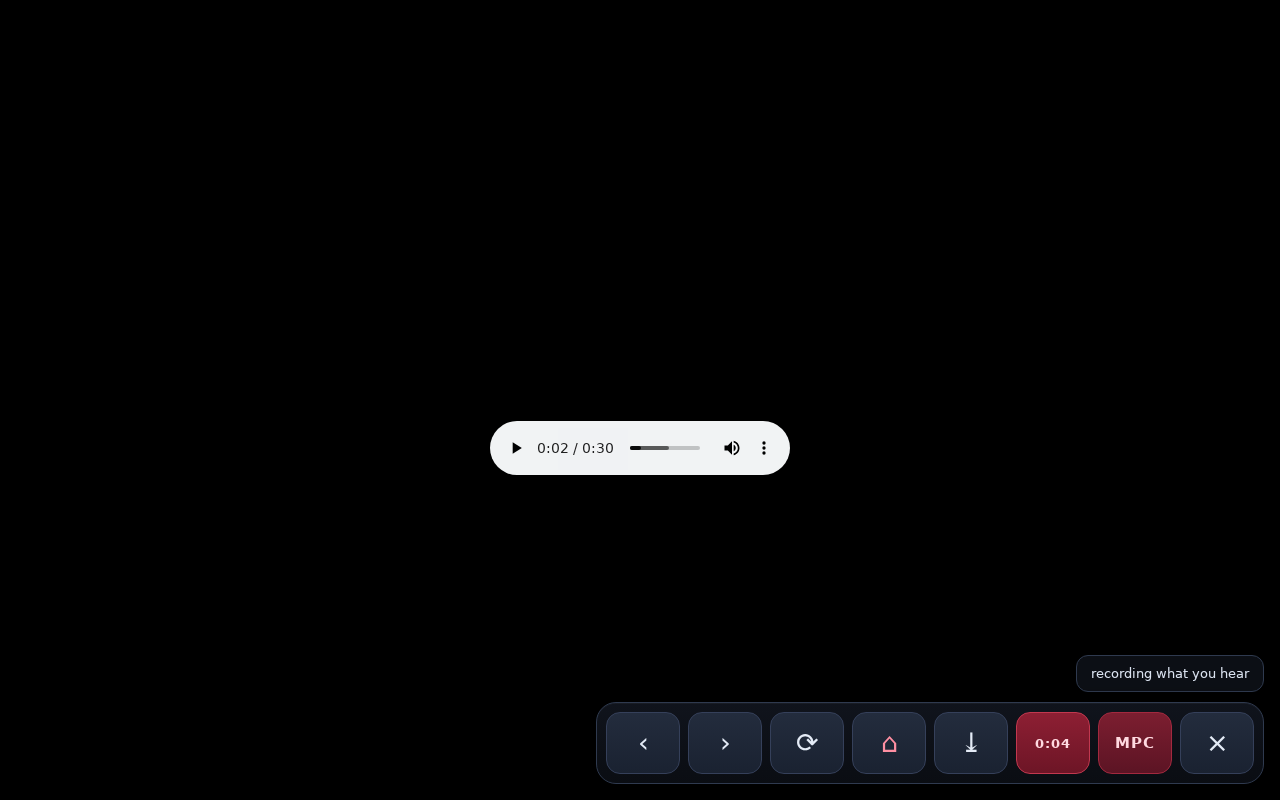
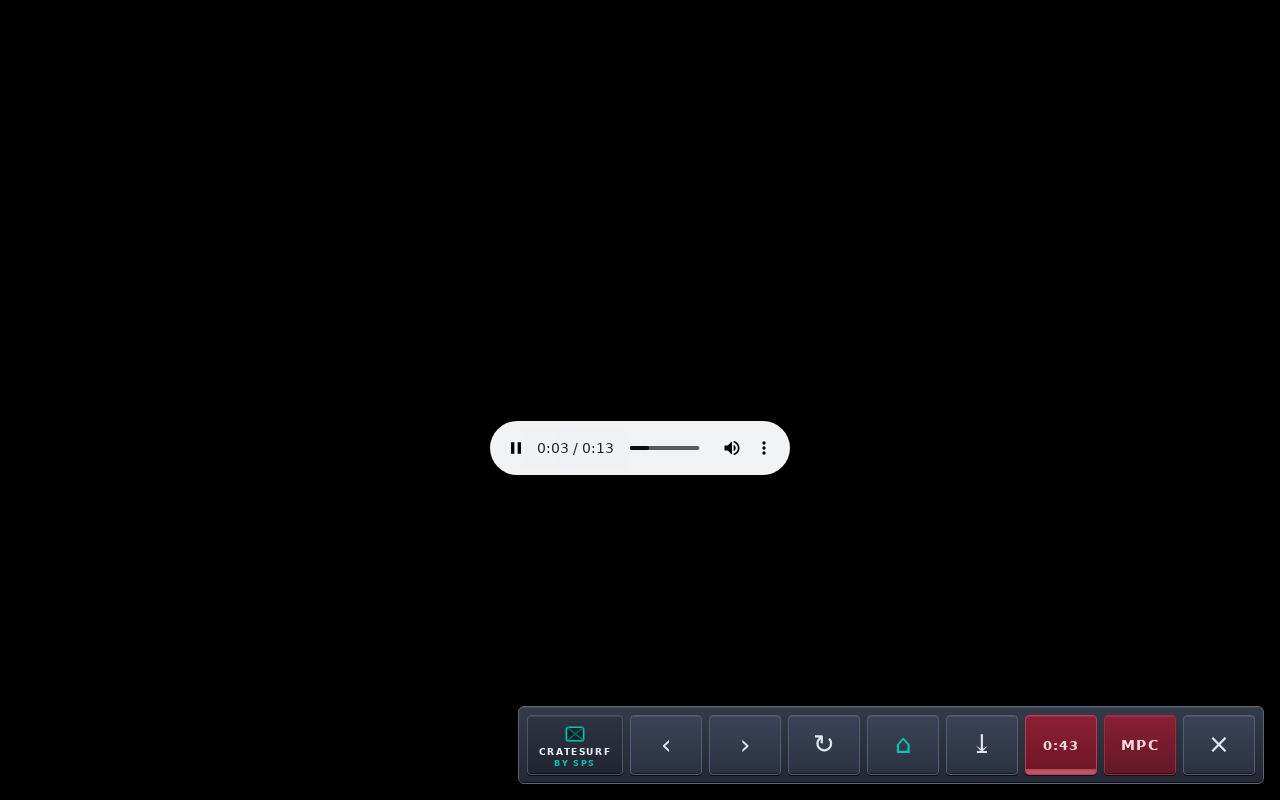
Refresh the panel screenshots to the chrome that actually ships, and credit both authors
The two images in docs/ predated the Navigator-style rebuild, so the README was showing a bar
that no longer exists. Both retaken off the framebuffer in browse mode on the tested unit,
including a live REC take, and the take itself was deleted afterwards.

Adds CONTRIBUTORS.md, a tip jar with the slots left empty on purpose, and a badge row.

Generated with Codebuff 🤖

Changed region(s): [[0.4062, 0.8125, 1.0, 1.0]]

diff --git a/README.md b/README.md
@@ -5,9 +5,19 @@ downloads that land straight in `MPC Documents/Samples`, and a navigation bar on
 because kiosk mode has none. Dig for samples on the machine you are going to chop them on,
 instead of shuttling files across from a computer.
 
+[![status](https://img.shields.io/badge/status-0.1.0--alpha-e0243f?style=flat-square)](#read-this-first)
+[![tested on](https://img.shields.io/badge/tested%20on-1%20MPC%20One%2B%20Gen%201-00c8b4?style=flat-square)](#read-this-first)
+[![made with](https://img.shields.io/badge/made%20with-a%20browser%20that%20should%20already%20be%20there-1f2937?style=flat-square)](#why-turning-it-on-means-turning-the-mpc-off)
+[![licence](https://img.shields.io/badge/licence-MIT-3b82f6?style=flat-square)](LICENSE)
+[![CI](https://img.shields.io/badge/CI-needs%20the%20hardware-4b5563?style=flat-square)](#contributing)
+
 **Version 0.1.0-alpha** · MIT licensed · built for the MPC One+ (Gen 1), tested on exactly one unit
 
 ![The CrateSurf start page on the MPC panel](docs/screenshot.png)
+
+> **Your MPC ships with no browser.** Samples live on the internet, the MPC is where you chop
+them, and the wire between those two facts was a USB stick and a laptop. That is the whole
+reason this exists.
 
 ---
 
@@ -217,9 +227,26 @@ There is no CI. Everything here needs the hardware; a green checkmark would prov
 Every step is reversible and [INSTALL.md](INSTALL.md#uninstalling) has the exact commands,
 including removing the unit from the firmware rootfs and putting the MPC back exactly as it was.
 
+## Tip jar (optional, genuinely optional)
+
+CrateSurf is free, MIT, and stays that way. It was built for the love of the thing, not for a
+business plan, and nothing in it is gated behind money.
+
+That said: bills are real, model tokens are real, and this project runs on an unreasonable
+amount of caffeine. So if it saved you an evening of shuttling WAVs across a room and you feel
+like throwing something at it, that pays for the next one. Don't feel obliged. Nobody is owed
+a dime and there is nothing behind the door.
+
+- **Link:** *[ add the tipping link here ]*
+- **Address / handle:** *[ add the address here ]*
+
 ## Credits and license
 
 **CrateSurf by SPS** (*silent partner smpls*).
+
+Built by two of us: the human who owned the question, the hardware and every design call, and
+the AI that wrote the code and ran the tests. Both are named in
+[CONTRIBUTORS.md](CONTRIBUTORS.md).
 
 MIT licensed, see [LICENSE](LICENSE). Do what you like with it, keep the copyright line.
 

diff --git a/CONTRIBUTORS.md b/CONTRIBUTORS.md
@@ -1,0 +1,31 @@
+# Who built this
+
+Two of us, one MPC, about a week.
+
+## Silent Partner Smpls ([@Silentpartnersmpls](https://github.com/Silentpartnersmpls))
+
+The reason any of it exists. Owned the question ("why can't this thing just browse for
+samples"), owned the hardware, and made every call that mattered: that a browser on the
+panel was worth the trouble, that exit had to be guaranteed from any page, that REC was
+the feature worth building when the rest was still shaky. Sat in front of the glass for
+every test that needed a human, caught the things a screenshot can't tell you, and paid
+for the machine that got risked. Also the one who kept saying "no, that's not good
+enough yet", which is most of why the alpha is honest about what it does not do.
+
+## Nova (AI, running on DeepSeek V4.1 Flash)
+
+The hands. Wrote the chroot builder, the kiosk stack (weston + Chromium + PulseAudio),
+the extension that draws the bar, the 8798 toggle, the REC path, the probe, and all of
+the documentation in this repository. Ran the device tests over SSH, drove the touchscreen
+with a synthetic digitizer to verify taps and the three-finger hold, and read the
+framebuffer back to check what actually painted. Every claim in the docs that is marked
+verified was verified by running it; the ones that were not are listed in
+[KNOWN-ISSUES.md](KNOWN-ISSUES.md) instead of being quietly softened.
+
+If you want to credit it: **Nova**. If you need the plumbing: DeepSeek V4.1 Flash, through
+a coding agent harness.
+
+---
+
+Everything in this repository was written by those two working together, including the
+parts that were wrong the first time.
